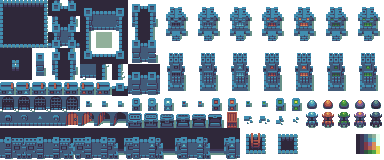
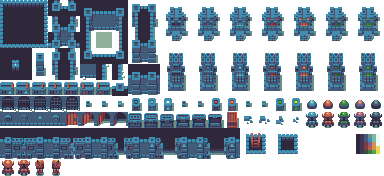
Added rotation sprites a]lso to js

diff --git a/src/web_server/static/hallway.js b/src/web_server/static/hallway.js
@@ -169,11 +169,9 @@ function render() {
     game.state.players.forEach((player) => {
         const x = player.position.x * S + xOffset;
         const y = player.position.y * S + yOffset;
-        // context.translate(x, y);
-        // context.rotate(player.rotation);
-        context.drawImage(game.tiles[player.name], x, y);
-        // context.rotate(player.rotation);
-        // context.translate(x, y);
+
+        const sprite = game.tiles[player.name + "_" + player.direction];
+        context.drawImage(sprite, x, y);
     });
 
     game.drawFadeMessages();
@@ -242,7 +240,11 @@ function split_sheet() {
     game.tiles["wall_test"] = context.getImageData(6 * S, 1 * S, S, S);
     game.tiles["door"] = context.getImageData(7 * S, 7 * S, S, S);
 
-    game.tiles["Demolisher"]   = context.getImageData(19 * S, 7 * S, S, S);
+    game.tiles["Demolisher_0"]   = context.getImageData(0 * S, 10 * S, S, S);
+    game.tiles["Demolisher_90"]   = context.getImageData(2 * S, 10 * S, S, S);
+    game.tiles["Demolisher_180"]   = context.getImageData(1 * S, 10 * S, S, S);
+    game.tiles["Demolisher_270"]   = context.getImageData(3 * S, 10 * S, S, S);
+
     game.tiles["character_red"]    = context.getImageData(20 * S, 7 * S, S, S);
     game.tiles["character_green"]  = context.getImageData(21 * S, 7 * S, S, S);
     game.tiles["character_purple"] = context.getImageData(22 * S, 7 * S, S, S);
